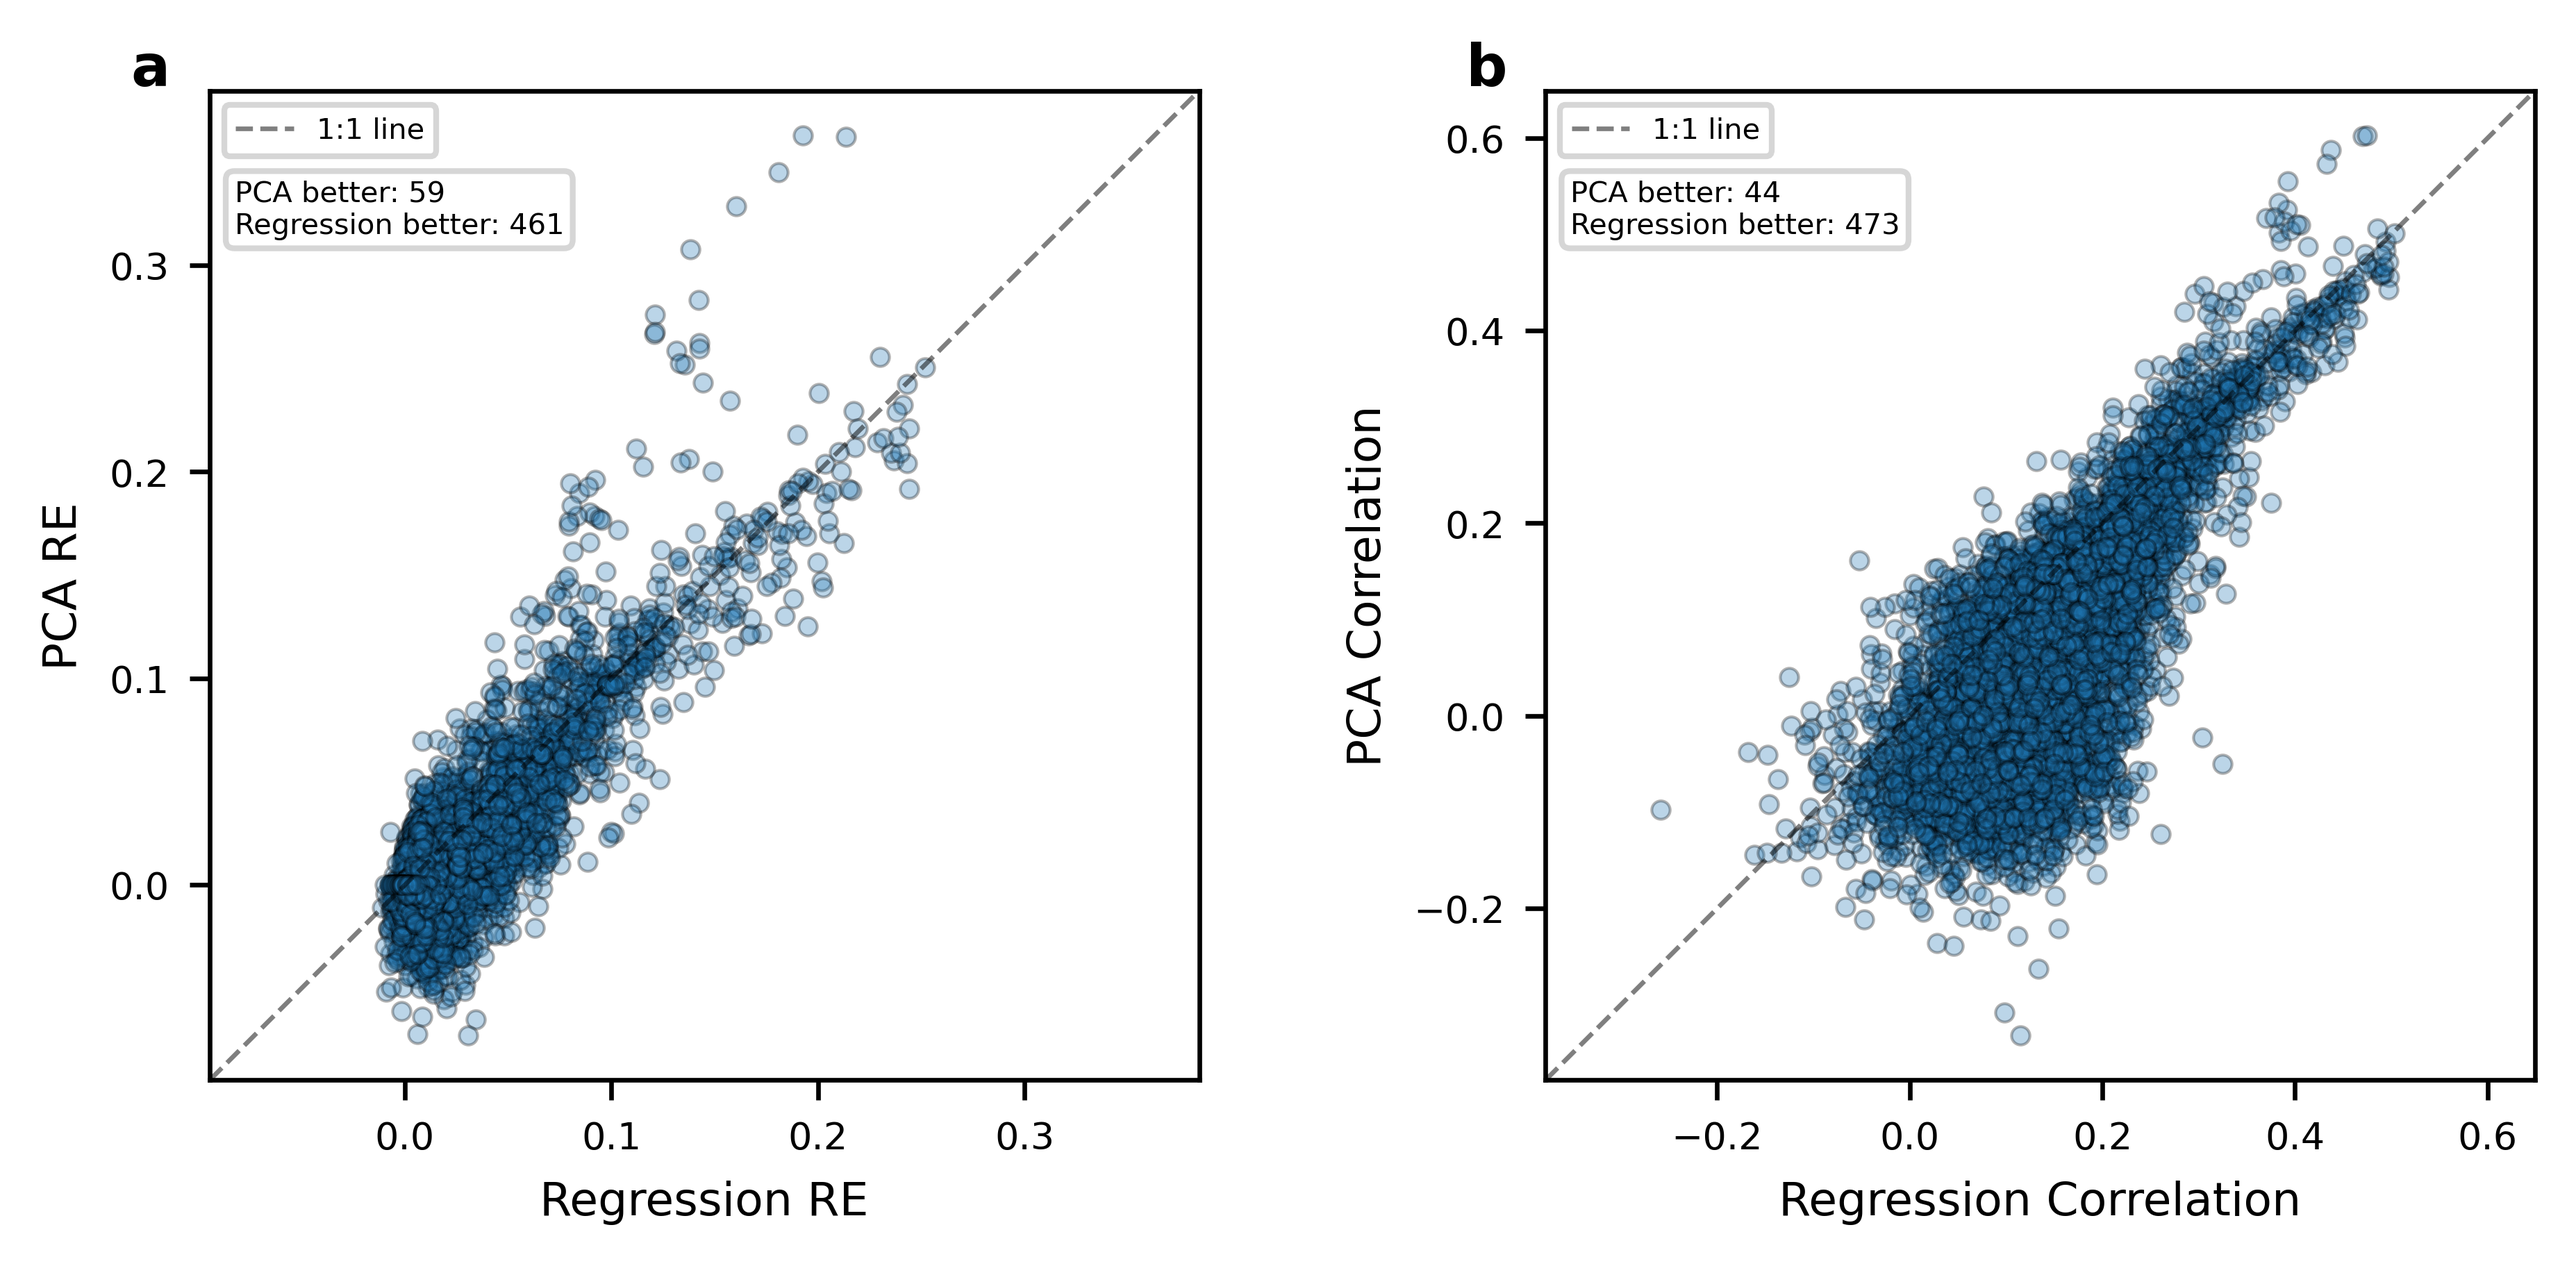
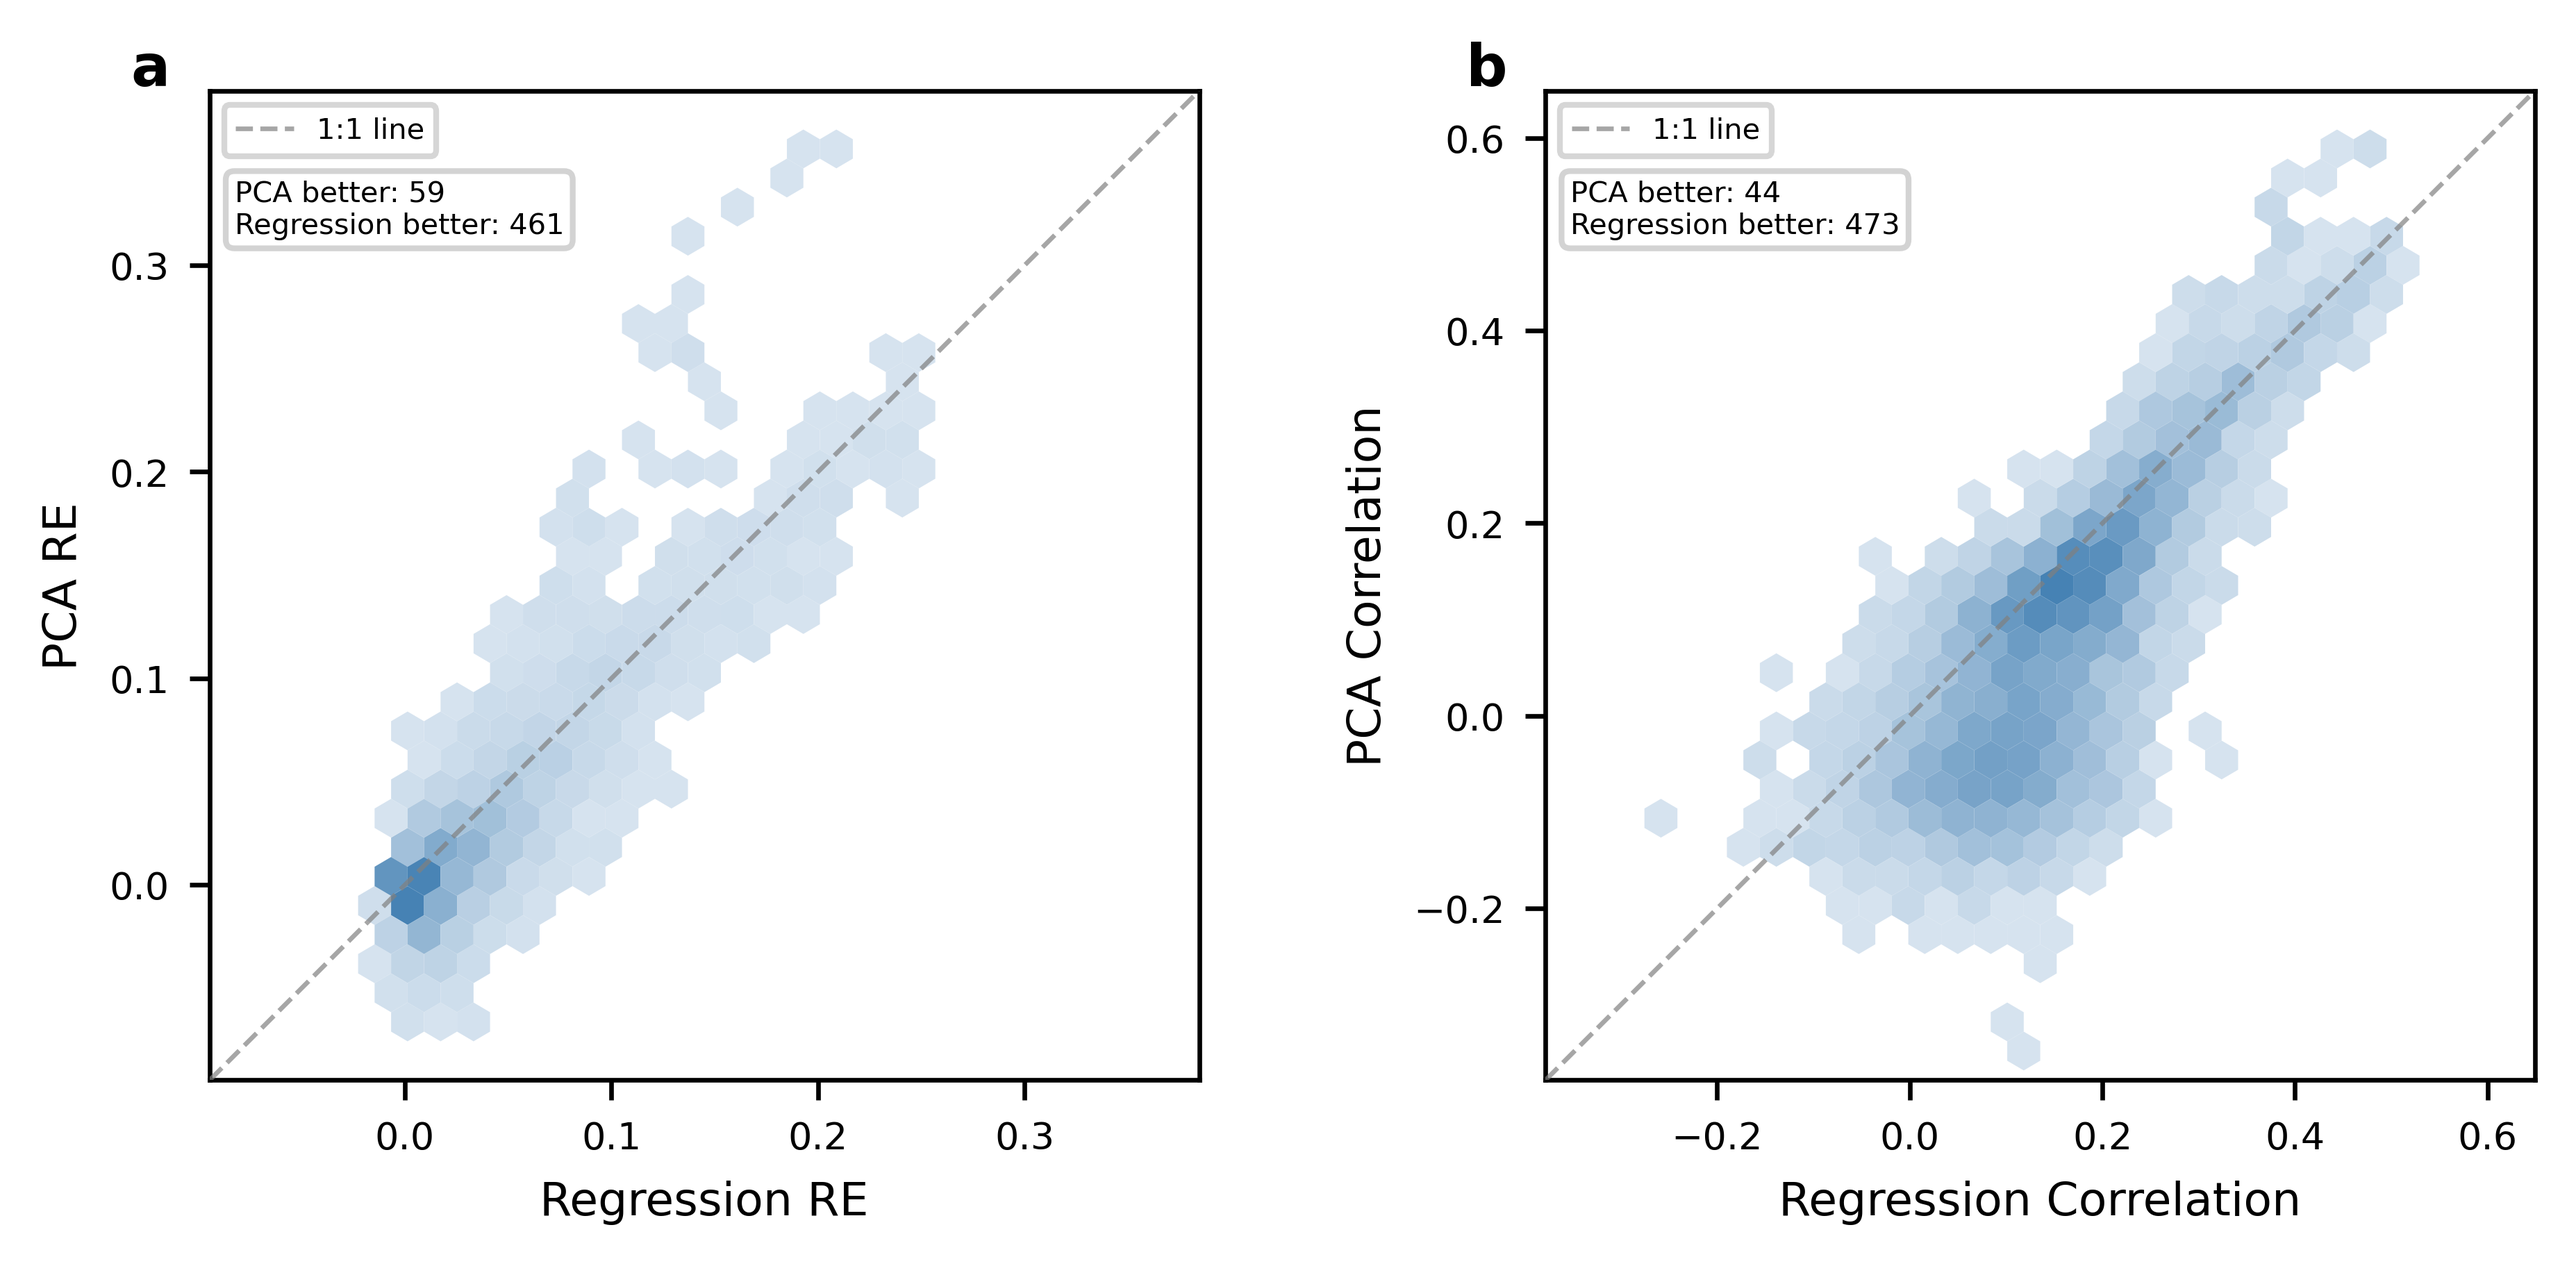
Change Figure 4 to hexabin style

Changed region(s): [[0.6201, 0.0922, 0.9612, 0.8601], [0.124, 0.0922, 0.3721, 0.8294]]

diff --git a/code/figures/Figure_04_PCA_Regression_CV_hexabin.py b/code/figures/Figure_04_PCA_Regression_CV_hexabin.py
@@ -10,12 +10,14 @@ Description
 Reads processed CV results and creates a multi-panel figure comparing
 regression and PCA reconstruction skill across river basins.
 
-Each point = one basin × dataset-pair combination.
-Ensemble-mean win counts shown in corner annotation.
+Each hexagon = density of basin × dataset-pair points.
+Ensemble-mean win counts shown in top-left corner annotation.
+
+The colorscale starts at 1 and has a square root [norm = PowerNorm(gamma=0.5)] scale up to the highest color
 
 Panels:
-  (a) Paired scatter: RE for regression vs PCA
-  (b) Paired scatter: Correlation for regression vs PCA
+  (a) Hexbin density: RE for regression vs PCA
+  (b) Hexbin density: Correlation for regression vs PCA
 
 Input
 -----
@@ -35,6 +37,7 @@ import matplotlib.pyplot as plt
 import numpy as np
 import pandas as pd
 import xarray as xr
+from matplotlib.colors import LinearSegmentedColormap, PowerNorm
 
 sys.path.insert(0, str(Path(__file__).resolve().parents[2]))
 from paths import PAPER_FIGURE_DIR, DATA_DIR
@@ -59,33 +62,6 @@ SST_DATASETS = ["ERSSTv6", "COBE-SST3"]
 CV_DIR = DATA_DIR
 
 
-def load_cv_results(verbose=True):
-    datasets = []
-    pair_names = []
-
-    for p_name in PRECIP_DATASETS:
-        for sst_name in SST_DATASETS:
-            path = CV_DIR / f"cv_reconstruction_{p_name}_{sst_name}.nc"
-            if not path.exists():
-                if verbose:
-                    print(f"  [MISSING] {path.name}")
-                continue
-
-            ds = xr.open_dataset(path)
-            pair_label = f"{p_name}_{sst_name}"
-            ds = ds.expand_dims(pair=[pair_label])
-            datasets.append(ds)
-            pair_names.append(pair_label)
-            ds.close()
-
-            if verbose:
-                print(f"  Loaded {pair_label}")
-
-    if not datasets:
-        raise FileNotFoundError("No CV reconstruction files found.")
-
-    return xr.concat(datasets, dim="pair")
-
 # ---------------------------------------------------------------------------
 # Style
 # ---------------------------------------------------------------------------
@@ -101,18 +77,14 @@ plt.rcParams.update({
 # =============================================================================
 # PANEL FUNCTIONS
 # =============================================================================
-def plot_scatter_panel(ax, basin_df, metric, metric_label, panel_label,
-                       ensemble_pca_wins, ensemble_reg_wins):
+def plot_hexbin_panel(ax, basin_df, metric, metric_label, panel_label,
+                      ensemble_pca_wins, ensemble_reg_wins):
     """
-    Paired scatter: regression (x) vs PCA (y).
-    Each point = one basin × dataset-pair.
+    Paired hexbin density: regression (x) vs PCA (y).
+    Each hexagon = density of basin × dataset-pair points.
     Ensemble-mean win counts shown in the top-left corner.
     """
     sub = basin_df[basin_df["metric"] == metric].copy()
-
-    # Each row already has regression and pca columns (ensemble-mean per basin).
-    # To plot individual pairs we need the raw pair-level data, which is stored
-    # in the wide per_basin CSV produced by build_per_basin_table.
 
     r = sub["regression"].values
     p = sub["pca"].values
@@ -120,22 +92,45 @@ def plot_scatter_panel(ax, basin_df, metric, metric_label, panel_label,
     valid = np.isfinite(r) & np.isfinite(p)
     r, p = r[valid], p[valid]
 
-    # 1:1 line
+    # Axis limits with small margin
     lo = min(r.min(), p.min())
     hi = max(r.max(), p.max())
     margin = 0.05 * (hi - lo) if hi > lo else 0.1
-    ax.plot(
-        [lo - margin, hi + margin],
-        [lo - margin, hi + margin],
-        "k--", lw=0.8, alpha=0.5, zorder=5, label='1:1 line'
+    x_lo, x_hi = lo - margin, hi + margin
+    y_lo, y_hi = lo - margin, hi + margin
+
+    # --- Hexbin density (steelblue) ---
+    # Build a pale-steelblue -> steelblue colormap so even single-count cells
+    # stay visible, and use log-scaled counts so high-density cells don't
+    # wash out the rest of the distribution.
+    from matplotlib.colors import LinearSegmentedColormap
+    cmap_steelblue = LinearSegmentedColormap.from_list(
+        "pale_to_steelblue", ["#d6e3ef", "steelblue"]
+    )
+    ax.hexbin(
+        r, p,
+        gridsize=30,
+        cmap=cmap_steelblue,
+        mincnt=1,
+        norm=PowerNorm(gamma=0.5),
+        extent=(x_lo, x_hi, y_lo, y_hi),
+        linewidths=0.0,
+        zorder=2,
     )
 
-    ax.scatter(r, p, s=10, alpha=0.3, edgecolors="black", linewidth=0.5, zorder=2)
+    # --- 1:1 reference line (dashed) ---
+    ax.plot(
+        [x_lo, x_hi],
+        [y_lo, y_hi],
+        linestyle="--", color="0.5", lw=0.8, alpha=0.7, zorder=4,
+        label="1:1 line",
+    )
 
+    # --- Axis cosmetics ---
     ax.set_xlabel(f"Regression {metric_label}")
     ax.set_ylabel(f"PCA {metric_label}")
-    ax.set_xlim(lo - margin, hi + margin)
-    ax.set_ylim(lo - margin, hi + margin)
+    ax.set_xlim(x_lo, x_hi)
+    ax.set_ylim(y_lo, y_hi)
     ax.set_aspect("equal", adjustable="box")
 
     # Ensemble-mean win counts in top-left corner
@@ -144,17 +139,16 @@ def plot_scatter_panel(ax, basin_df, metric, metric_label, panel_label,
         f"PCA better: {ensemble_pca_wins}\nRegression better: {ensemble_reg_wins}",
         transform=ax.transAxes,
         fontsize=5, va="top", ha="left",
-        bbox=dict(boxstyle="round,pad=0.3", fc="white", ec="0.8", alpha=0.8),
+        bbox=dict(boxstyle="round,pad=0.3", fc="white", ec="0.8", alpha=0.85),
     )
-    
 
-    ax.legend(fontsize=5, loc='upper left')
+    ax.legend(fontsize=5, loc="upper left")
+
     ax.text(
         -.08, 1.05, panel_label,
         transform=ax.transAxes,
         fontsize=10, fontweight="bold", va="top",
     )
-
 
 
 # =============================================================================
@@ -165,7 +159,7 @@ def load_pair_level_data(ds_raw):
     Reshape the raw (pair, basin, method) Dataset into a long DataFrame
     with columns: pair, basin, metric, regression, pca.
 
-    This is what gives you one point per basin × dataset-pair in the scatter.
+    This is what gives you one point per basin × dataset-pair in the hexbin.
     """
     records = []
     metrics = ["re", "correlation", "rmse", "nrmse", "mae"]
@@ -191,6 +185,7 @@ def load_pair_level_data(ds_raw):
                 })
 
     return pd.DataFrame(records)
+
 
 def load_cv_results(verbose=True):
     """
@@ -235,6 +230,7 @@ def load_cv_results(verbose=True):
 
     return ds_combined
 
+
 # =============================================================================
 # MAIN FIGURE
 # =============================================================================
@@ -262,12 +258,12 @@ def make_figure():
     ax_b = fig.add_subplot(gs[0, 1])
 
     # --- Panels ---
-    plot_scatter_panel(
+    plot_hexbin_panel(
         ax_a, pair_df, "re", "RE", "a",
         ensemble_pca_wins=_wins("re", "pca_wins"),
         ensemble_reg_wins=_wins("re", "reg_wins"),
     )
-    plot_scatter_panel(
+    plot_hexbin_panel(
         ax_b, pair_df, "correlation", "Correlation", "b",
         ensemble_pca_wins=_wins("correlation", "pca_wins"),
         ensemble_reg_wins=_wins("correlation", "reg_wins"),
@@ -280,8 +276,6 @@ def make_figure():
     print(f"Figure saved → {outfile}")
     plt.show()
     plt.close()
-
-    
 
 
 # =============================================================================
